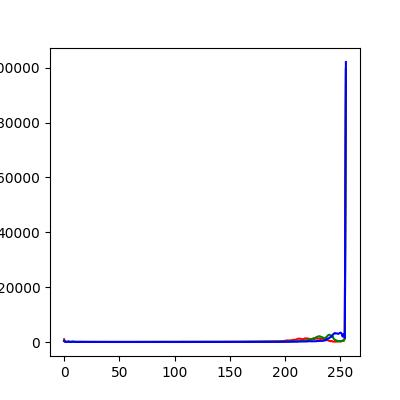
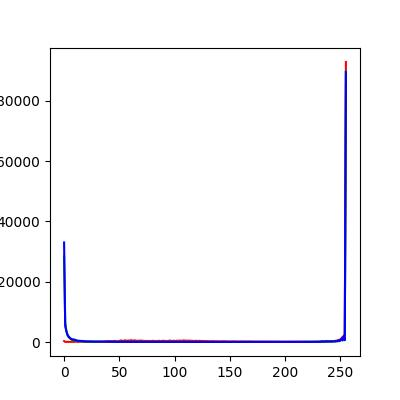
first commit 2

diff --git a/templates/index.html b/templates/index.html
@@ -7,7 +7,7 @@
     <form method="POST" enctype="multipart/form-data">
         {{ form.hidden_tag() }}
         <p>{{ form.img1.label }}: {{ form.img1() }}</p>
-        <p>{{ form.shape.label }}: {{ form.shape() }}</p>
+        <p>{{ form.choosing_colormaps.label }}: {{ form.choosing_colormaps() }}</p>
 
 
         <div>{{ form.submit() }}</div>

diff --git a/app.py b/app.py
@@ -20,13 +20,22 @@ app.config['SECRET_KEY'] = os.urandom(12).hex()
 class ColorForm(FlaskForm):
     img1 = FileField("Upload image", validators=[FileRequired(), FileAllowed(['jpg', 'jpeg', 'png'], 'Images only!')])
     submit = SubmitField("Submit", validators=[DataRequired()])
-    shape = SelectField("Collage shape",
-                        choices=[("Accent", "Accent"), ("Blues", "Blues"), ("cool", "cool"), ("BuGn", "BuGn"),
-                                 ("Dark2", "Dark2")],
-                        validators=[DataRequired()])
+    choosing_colormaps = SelectField("Choosing_colormaps",
+                                     choices=[("hot", "hot"), ("Blues", "Blues"), ("cool", "cool"), ("BuGn", "BuGn"),
+                                              ("Dark2", "Dark2")],
+                                     validators=[DataRequired()])
 
 
-def color_map(path):  # график
+# выдавать графики распределения цветов исходной картинки и графики среднего значения цвета по вертикали и горизонтали.
+# Доделать выдачу средних значений.!!
+def color_map(path, filename):  # график
+    # очищаем папку static от файлов, загруженных в прошлой сессии
+    files = os.listdir("./static/images/")
+    if len(files) > 1:
+        for file_path in files:
+            if file_path != 'style.css':
+                os.remove('./static/images/' + file_path)
+    #  Создаем форму. В случае успешной валидации, переходим на страницу с результатом
     image = Image.open(path)
     # трансформируем изображение в numpy массив
     np_image = np.array(image)
@@ -69,14 +78,19 @@ def color_map_2():  # график
 collage_path = './static/images/collage.jpg'
 
 
-def color_pics(path, shape):
+#############
+def color_pics(path, choosing_colormaps):
     image = Image.open(path)
     np_image = np.array(image)
-    print(shape)
-    plt.imshow(np_image[:, :, 1], cmap=shape)
+
+    plt.imshow(np_image[:, :, 1], cmap=choosing_colormaps)
+    plt.colorbar(orientation='horizontal')
     plt.savefig('./static/images/new_image.jpg')
 
+    ############
 
+
+# главная страница приложения
 @app.route("/", methods=["GET", "POST"])
 def index():
     # очищаем папку static от файлов, загруженных в прошлой сессии
@@ -89,14 +103,15 @@ def index():
     form = ColorForm()
 
     if form.validate_on_submit():
-        shape = form.shape.data
+        choosing_colormaps = form.choosing_colormaps.data
 
     if form.validate_on_submit():  # возвращает True, когда форма была отправлена и данные были приняты всеми валидаторами полей
-        filename1 = os.path.join('./static/images/', secure_filename(form.img1.data.filename))
-        form.img1.data.save(filename1)
 
-        color_map(filename1)
-        color_pics(filename1, shape)
+        filename1 = os.path.join('./static/images', secure_filename(form.img1.data.filename))
+        form.img1.data.save(filename1)
+        color_map(filename1, 'color_map')
+
+        color_pics(filename1, choosing_colormaps)
         color_map_2()
 
         return redirect(url_for("result", image1=filename1))

diff --git a/test.py b/test.py
@@ -5,26 +5,26 @@ import numpy as np
 #https://stackoverflow.com/questions/2270874/image-color-detection-using-python
 import matplotlib.pyplot as plt
 
-pic = plt.imread('./static/1.jpg')
-plt.imshow(pic)
-print(pic)
-#get image pixels
-print(pic.shape)
-
-# display the image in a matplotlib window
-
-fig = plt.figure()
-ax = fig.subplots()
-f = ax.imshow(pic[:,:,1], alpha=0.8, cmap='gray', vmin=0, vmax=500, aspect='equal')
-fig.colorbar(f)
-# crop the image
-#ax.set_xlim(0,1920)
-#ax.set_ylim(0,1920)
-plt.savefig('./static/new_image.jpg')
-plt.show()
-ax.imshow(pic)
-plt.show()
-
+#pic = plt.imread('./static/1.jpg')
+#plt.imshow(pic)
+#print(pic)
+##get image pixels
+#print(pic.shape)
+#
+## display the image in a matplotlib window
+#
+#fig = plt.figure()
+#ax = fig.subplots()
+#f = ax.imshow(pic[:,:,1], alpha=0.8, cmap='gray', vmin=0, vmax=500, aspect='equal')
+#fig.colorbar(f)
+## crop the image
+##ax.set_xlim(0,1920)
+##ax.set_ylim(0,1920)
+#plt.savefig('./static/new_image.jpg')
+#plt.show()
+#ax.imshow(pic)
+#plt.show()
+#
 
 # for i in range(0, 200,1):
 #    if i < 50:
@@ -71,22 +71,26 @@ plt.show()
 ## Оценка того, совпадают ли считанные и сохраненные данные
 # print(np.all(data[data.keys()[0]] == im_data), np.all(data[data.keys()[1]] == im_l_data)) #Output True True
 #
-def color_pics(path):
-    image = plt.imread(path)
-    # трансформируем изображение в numpy массив
-    np_image = np.array(image)
-    # транспонируем, чтобы получить доступ к значениям RGB
-    image_transposed = np_image.transpose()
-    image_transposed.permute(1, 2, 0)
-    print(image_transposed.shape) # вывод 3 300 400 /// требуется 300 400 3
-    #Функция matplotlib 'imshow' получает 3-канальные изображения в виде (h, w, 3)
+#def color_pics(path):
+#    image = plt.imread(path)
+#    # трансформируем изображение в numpy массив
+#    np_image = np.array(image)
+#    # транспонируем, чтобы получить доступ к значениям RGB
+#    image_transposed = np_image.transpose()
+#    image_transposed.permute(1, 2, 0)
+#    print(image_transposed.shape) # вывод 3 300 400 /// требуется 300 400 3
+#    #Функция matplotlib 'imshow' получает 3-канальные изображения в виде (h, w, 3)
+#
+#    plt.imshow(image_transposed)
+#    f = plt.imshow(image_transposed[:, :, 1], cmap='plasma')
+#    plt.colorbar(f)
+#    plt.savefig('./new_image.jpg')
 
-    plt.imshow(image_transposed)
-    f = plt.imshow(image_transposed[:, :, 1], cmap='plasma')
-    plt.colorbar(f)
-    plt.savefig('./new_image.jpg')
+image_open = Image.open('./static/images/Image.jpg')
+np_image = np.array(image_open)
 
-
+plt.imshow(np_image[:, :, 1], cmap='Blues')
+plt.savefig('./static/images/new_image.jpg')
 #image.open(path)
 #np_image = np.array(image)
 #plt.imshow(np_image[:,:,1], cmap=shape.lower())
